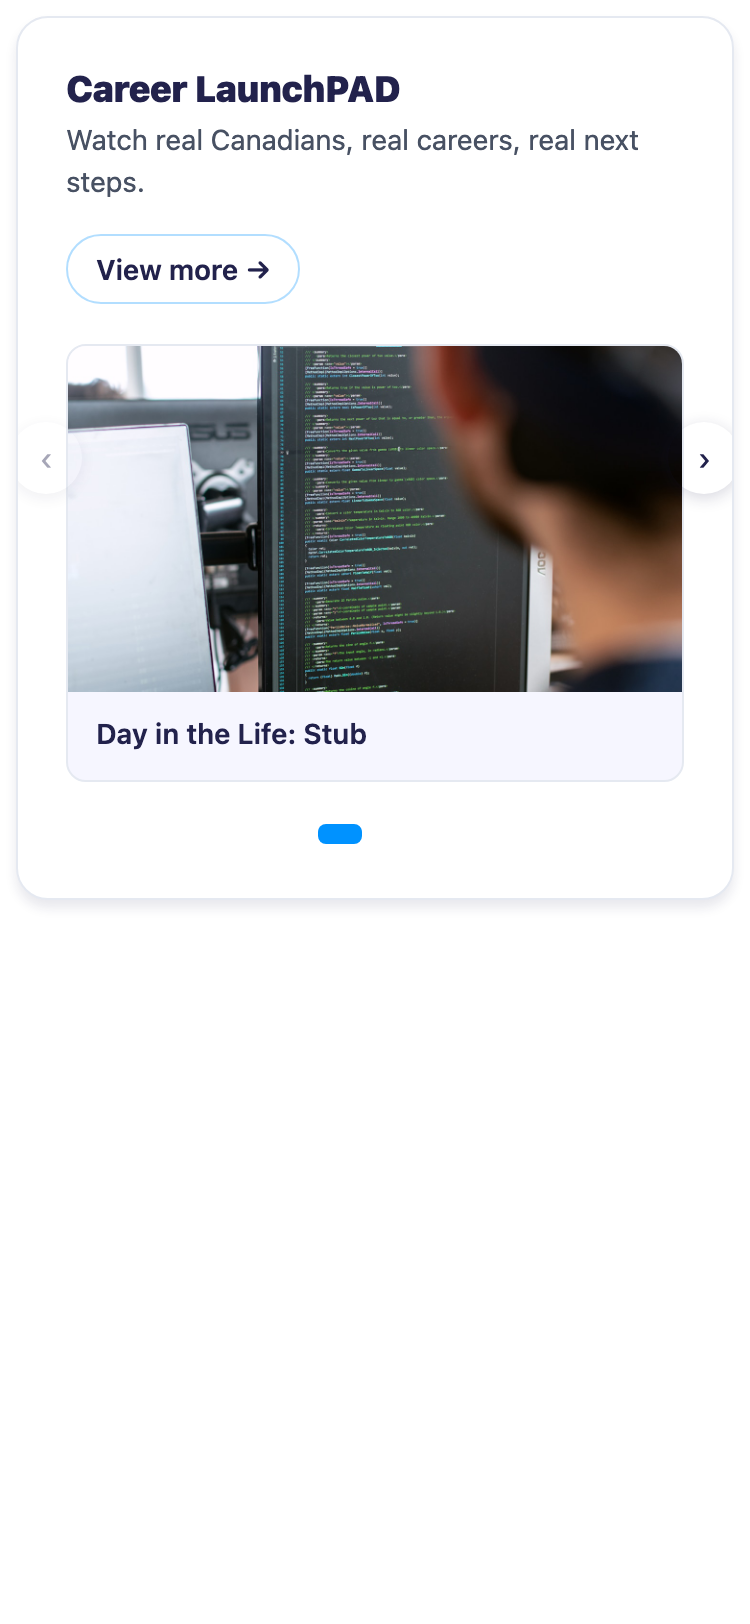
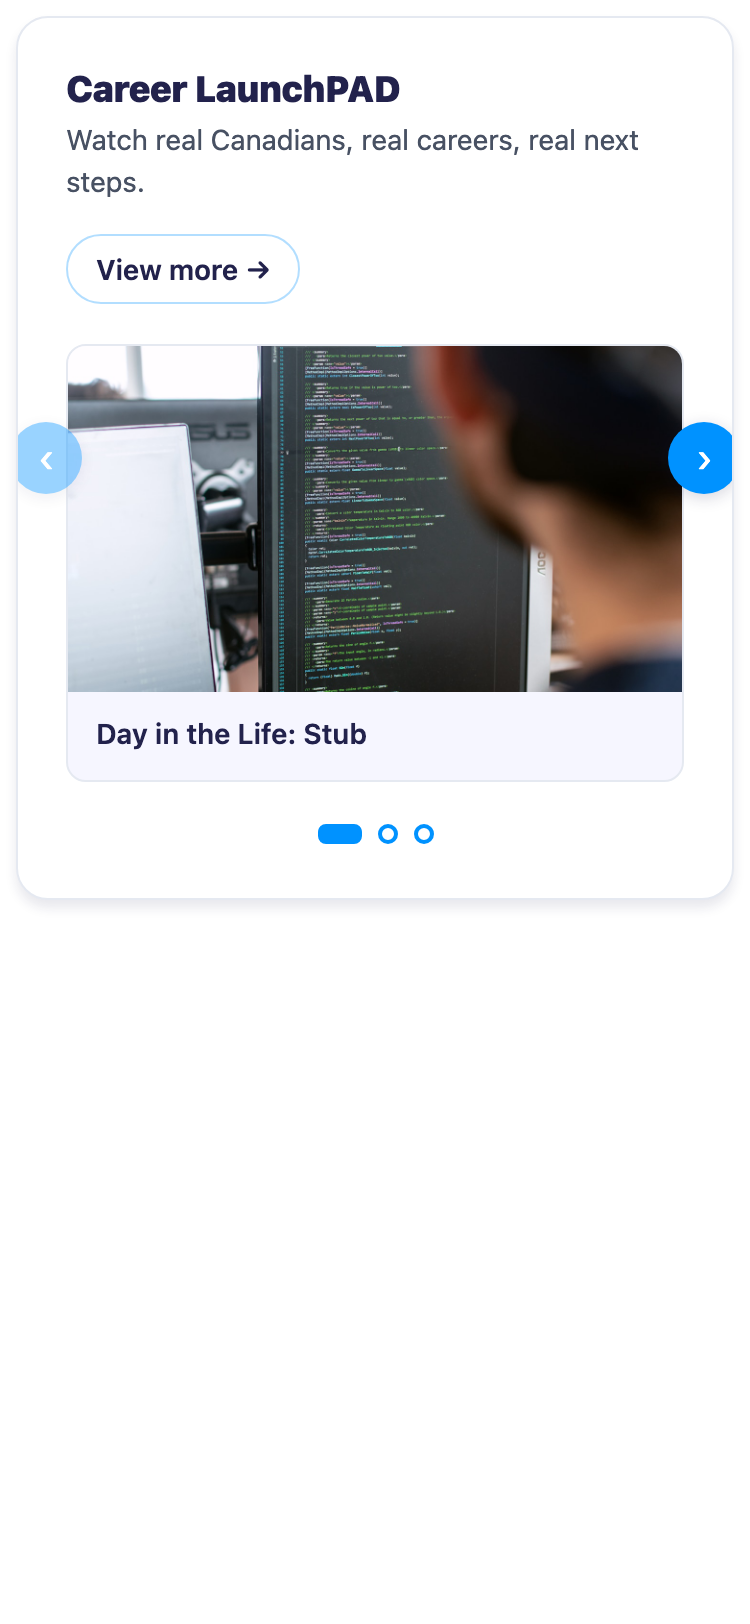
fix: scope .cl-dot and .cl-arrow under .cl-widget__controls so base styles win
The earlier v4 dot-ring change rendered as invisible on real browsers because
.cl-widget button (background: none; border: none) has specificity (0,1,1),
which beat the unscoped .cl-dot at (0,1,0). The active-pill rule worked because
.cl-dot[aria-pressed="true"] is (0,2,0). Same bug also silently affected
.cl-arrow base backgrounds (the hover state at (0,3,0) was the only thing
keeping the arrows blue on hover — non-hover arrows were rendering as
transparent buttons with just the chevron text).

Fix: bump base selectors to .cl-widget__controls .cl-dot and
.cl-widget__controls .cl-arrow, giving them (0,2,0) which beats the reset.
Active and hover rules are unchanged. Mobile screenshot regenerated and now
shows three dots cleanly + filled arrow buttons.

diff --git a/docs/handoffs/myblueprint-widget/career-launchpad-widget.html b/docs/handoffs/myblueprint-widget/career-launchpad-widget.html
@@ -256,7 +256,7 @@
           text-align: center;
         }
 
-        .cl-arrow {
+        .cl-widget__controls .cl-arrow {
           position: absolute;
           top: 50%;
           transform: translateY(-50%);
@@ -289,12 +289,15 @@
           justify-content: center;
           gap: 8px;
         }
-        .cl-dot {
+        .cl-widget__controls .cl-dot {
           width: 10px;
           height: 10px;
           border-radius: 50%;
           background: #ffffff;
-          border: 2px solid #0092ff;       /* signal-blue ring on white = "empty" state */
+          border: 2px solid #0092ff;       /* signal-blue ring on white = "empty" state.
+                                              Scoped under .cl-widget__controls so the
+                                              specificity (0,2,0) beats the .cl-widget button
+                                              reset at (0,1,1). */
           box-sizing: border-box;
           transition: background-color 120ms ease, width 120ms ease, border-color 120ms ease;
         }
@@ -354,7 +357,7 @@
           text-align: center;
         }
 
-        .cl-arrow {
+        .cl-widget__controls .cl-arrow {
           position: absolute;
           top: 50%;
           transform: translateY(-50%);
@@ -387,12 +390,15 @@
           justify-content: center;
           gap: 8px;
         }
-        .cl-dot {
+        .cl-widget__controls .cl-dot {
           width: 10px;
           height: 10px;
           border-radius: 50%;
           background: #ffffff;
-          border: 2px solid #0092ff;       /* signal-blue ring on white = "empty" state */
+          border: 2px solid #0092ff;       /* signal-blue ring on white = "empty" state.
+                                              Scoped under .cl-widget__controls so the
+                                              specificity (0,2,0) beats the .cl-widget button
+                                              reset at (0,1,1). */
           box-sizing: border-box;
           transition: background-color 120ms ease, width 120ms ease, border-color 120ms ease;
         }
